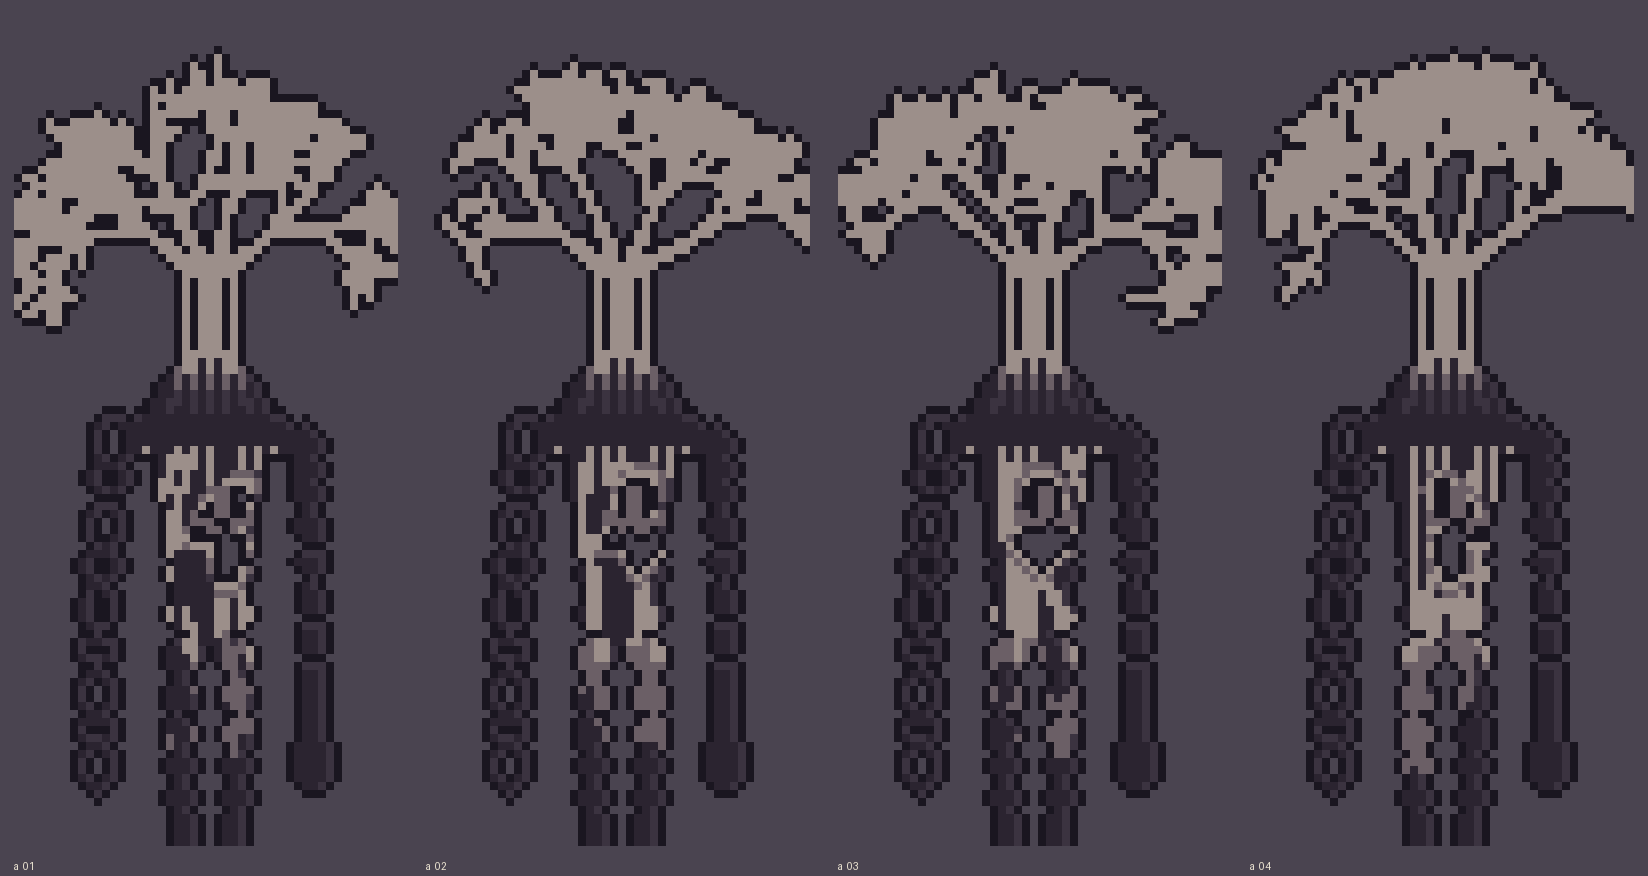
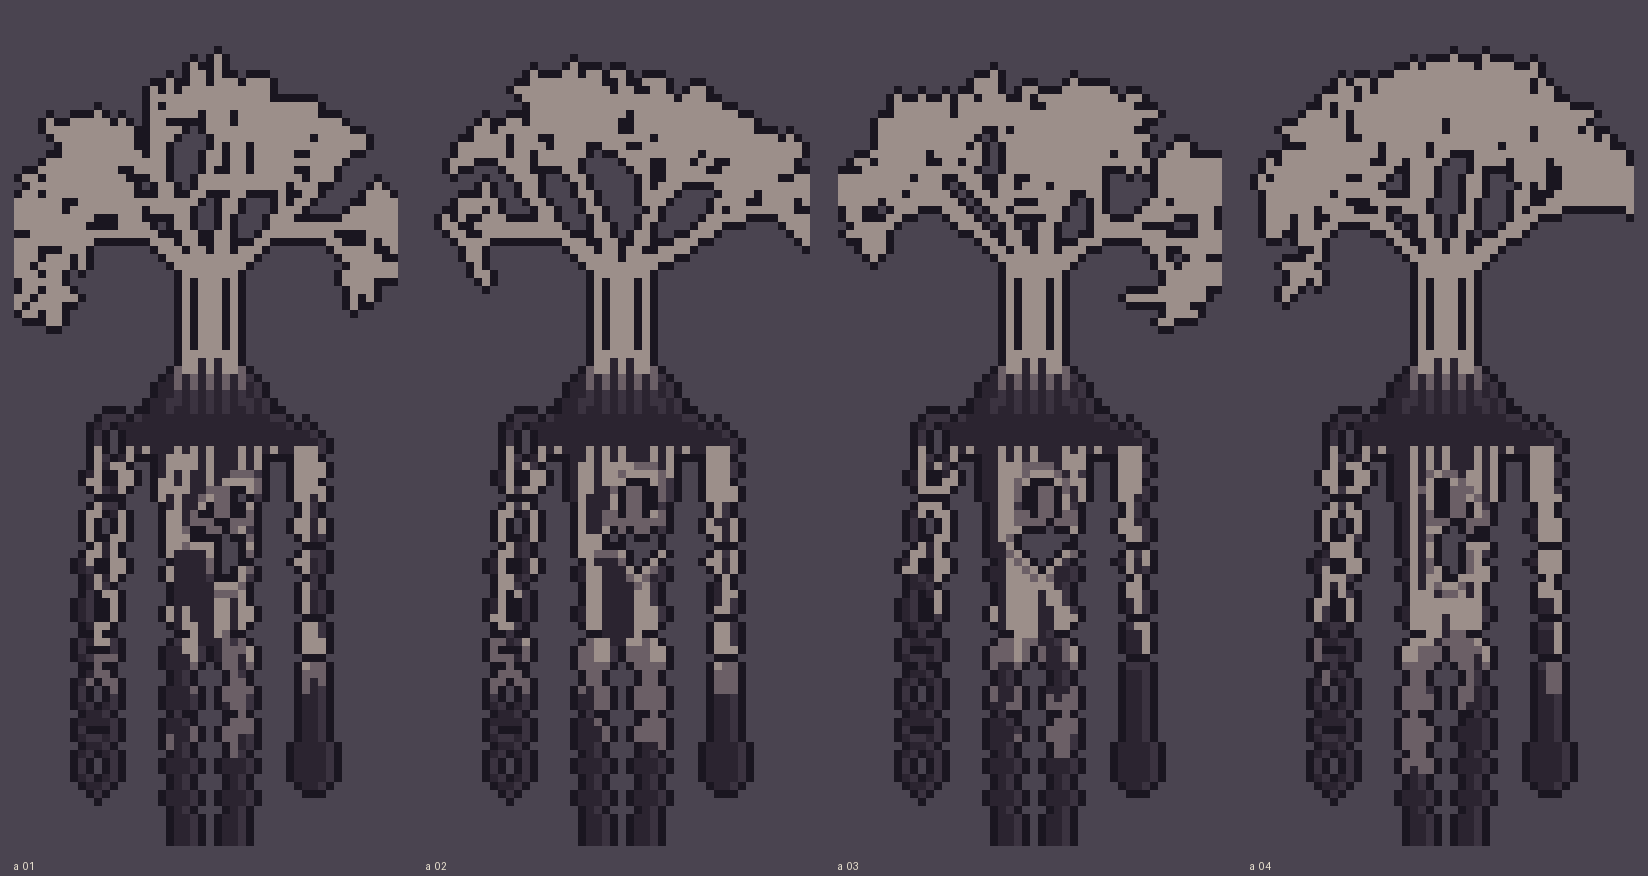
Tree head 11: gray roots on arms (tips stay dark)

diff --git a/tools/gen_t11.py b/tools/gen_t11.py
@@ -119,6 +119,12 @@ def figure(seed):
         c.line(sx, sy, sx - math.cos(a) * r2.uniform(1.5, 3), sy - math.sin(a) * r2.uniform(1.5, 3.5), 1, ch='m')
     L = chain(c, [(12, 53), (10, 72), (10, 94)])
     tube(c, [(36, 53), (37, 70), (37, 90)], 4.2, 3.4); c.ell(37, 93, 2.6, 3.4, "s")
+    tmp2 = C()                                                         # 팔에도 회색 뿌리 (팔 끝 y>84 는 제외)
+    for sx, a0 in [(12, 95), (10, 85), (14, 100), (36, 85), (37, 95), (35, 80)]:
+        root2(tmp2, sx, 54, math.radians(a0), 10, 5, r2)
+    for y in range(54, 85):
+        for x in range(48):
+            if tmp2.g[y][x] != '.' and c.g[y][x] != '.' and (x <= 16 or x >= 33): c.g[y][x] = tmp2.g[y][x]
     trunk2(c, 5, 51, 31)
     for i in range(4):
         dome(c, 24 + (i - 1.5) * 1.6, 31, math.radians(-90 + (i - 1.5) * rng.uniform(32, 40)), 7.5, 5, rng)
